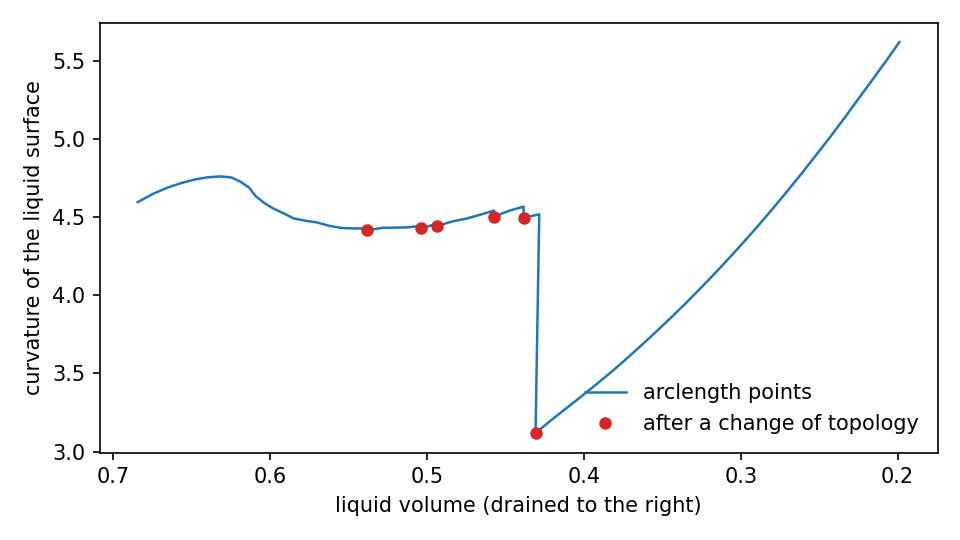
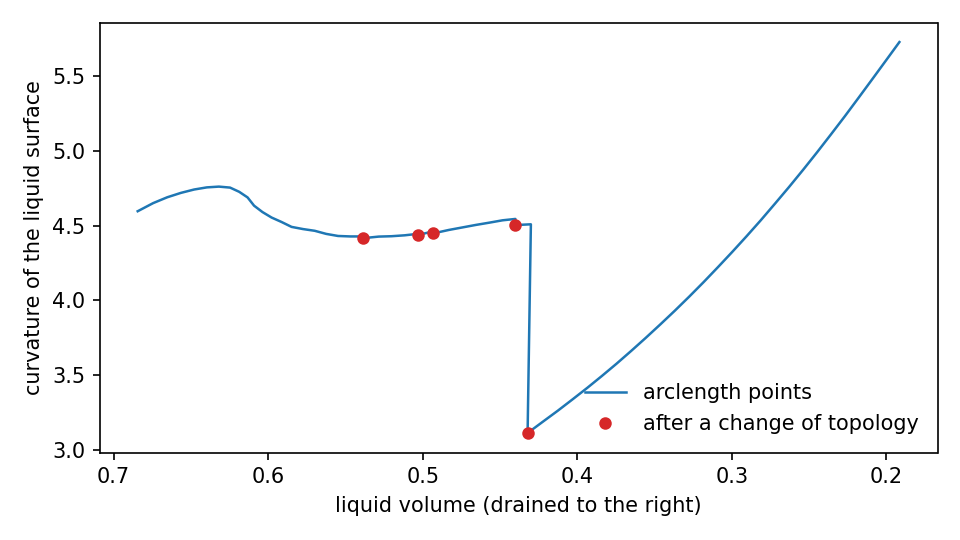
Topology runs: the mesh evened where a change or fall ends; pole moves only for a farther place
- recipes._smooth: vertex averaging and edge flips with Newton steps back
  between, five times, where a change or fall settles (undone if Newton
  doesn't get back or the surface went through a solid). Newton's first
  step from a pack's post-change mesh (7 degrees beside a contact line)
  converged only linearly and failed; once evened (18-23 degrees), in 4-5
  steps. The "three falls in a row without a change" stop: 0 of 6 runs,
  against 4 of 6.
- move_poles: an unforced move only where the new pole is 1.5 times as far
  from the lines (a bead's pole had moved 19 times).
- docs/drainage_topology.md: outputs, prose and figures for the change (the
  pore's jump dries two beads now, not three).

Claude-Session: https://claude.ai/code/session_01Kwrdj7nwy1jTuiKZ3FpBEY

diff --git a/python/pysurfaceevolver/recipes.py b/python/pysurfaceevolver/recipes.py
@@ -786,6 +786,7 @@ def arclength(ev, what: Any, ds: float, steps: int, *,
                      if stalled else f"the fall from {last[-1].value:.6g}")
             warnings.warn(f"arclength(): {what_} stopped: {why}", UserWarning, stacklevel=2)
             return
+        _smooth(ev, factor, tol)
         bodies = ev.bodies()
         settled = Step(index, _current(ev, what), ev.energy, np.array(bodies.volume),
                        np.array(bodies.pressure), result, events=ev.events(factor),
@@ -798,6 +799,22 @@ def arclength(ev, what: Any, ds: float, steps: int, *,
             warnings.warn("arclength(): three falls in a row ended without a change of "
                           "topology: stopping", UserWarning, stacklevel=2)
             return
+
+
+def _smooth(ev, factor: float, tol: float) -> None:
+    """The mesh evened where a change or fall ended: vertex averaging and edge
+    flips, Newton steps back to the equilibrium after each, five times.
+    Newton's steps from there converged only linearly (a pack's contact line
+    beside facets of 7 degrees: x0.7 a step, and the run's first step
+    failed), x20 once evened (18 degrees). Undone where Newton doesn't get
+    back, or the surface went through a solid."""
+    start = ev.save()
+    for _ in range(5):
+        ev.vertex_average()
+        ev.equiangulate()
+        ev.newton(3, tol=tol)
+    if not ev.newton(20, tol=tol).converged or _through(ev.events(factor)):
+        ev.restore(start)
 
 
 def _nearest(found: list) -> Any:

diff --git a/python/pysurfaceevolver/_surgery.py b/python/pysurfaceevolver/_surgery.py
@@ -156,6 +156,8 @@ def move_poles(ev, force=()) -> list:
         if near >= _POLE_MARGIN and key not in force:
             continue
         reach = np.linalg.norm(cand[:, None, :] - line[None, :, :], axis=2).min(axis=1)
+        if key not in force and reach.max() < 1.5*near:
+            continue            # (no farther place: a bead's pole moved 19 times)
         axis = cand[int(np.argmax(reach))]
         new = C.sphere(tuple(centre), R, contact_angle=getattr(wall, "contact_angle"),
                        axis=tuple(axis))

diff --git a/docs/drainage_topology.md b/docs/drainage_topology.md
@@ -15,7 +15,9 @@ This page drains two shapes this way. The first is a drop with a solid sphere in
 it; the second is one pore of a bead pack. Both use spheres whose wetting integrals
 have a single singular point, put where the liquid never goes or always is
 (`constraints.sphere(axis=...)`). The default azimuth about z is singular at both
-poles, and a contact line that crossed one would carry the integrals with it.
+poles, and a contact line that crossed one would carry the integrals with it. Where
+a contact line still comes near a sphere's singular point, the run moves the point
+to the far side of the sphere from the lines, keeping the volume and energy.
 
 ## A drop draining over a sphere
 
@@ -60,9 +62,9 @@ print(f"at volume {steps[-1].value:.0f} the contact angle along the ball's line 
 ```
 
 ```text
-first dry patch at volume 31.5 (the drop full at 53.5), the last change at 13
+first dry patch at volume 31.5 (the drop full at 53.5), the last change at 11
 the volume held at every point to round-off
-at volume 10 the contact angle along the ball's line is 26 to 29 degrees (set: 30)
+at volume 10 the contact angle along the ball's line is 26 to 30 degrees (set: 30)
 ```
 
 The first patch opens where the drop's surface comes within half an edge of the
@@ -116,8 +118,8 @@ print(f"then on to {V[-1]:.2f}, curvature {k[-1]:.1f}")
 ```text
 full: volume 0.68, curvature 4.6
 before the jump: bead4 drying from 0.54, a patch at a time; curvature up to 4.8
-at 0.43 the liquid jumps: curvature from 4.5 to 3.1 at the same volume, bead2, bead3, bead4 drying
-then on to 0.20, curvature 5.6
+at 0.43 the liquid jumps: curvature from 4.5 to 3.1 at the same volume, bead2, bead4 drying
+then on to 0.19, curvature 5.7
 ```
 
 ```{figure} _static/drainage_pore.png
@@ -133,7 +135,7 @@ First the menisci come down onto bead 4, and dry patches open on it one after th
 other while the curvature stays near 4.5. At a volume of 0.43, the last liquid across
 the pore's middle can no longer hold its place. With the volume fixed, the liquid
 rearranges at once into the wedges between the beads, at a curvature of 3.1, drying
-three beads where the strip was. This is the analogue of a Haines jump at a fixed
+two beads where the strip was. This is the analogue of a Haines jump at a fixed
 volume: the same rearrangement under a fixed pressure would be a sudden loss of
 liquid. Past it, the curvature rises again as the wedges drain.
 
@@ -155,7 +157,6 @@ The liquid just before the jump (left) and just after it (right), at the same vo
 - Drained further, this pore stops at a volume of about 0.16. Newton's steps
   converge only slowly in a strongly curved part of the remaining liquid, and the run
   can't step on. A finer mesh and a run down to the pendular rings are open.
-- A pack of many beads isn't done yet. As a meniscus sweeps past a bead, its contact
-  line can come near the point where the bead's wetting integrals are singular, and
-  crossing it moves the wetted area by the whole sphere. Representing the beads'
-  wetted parts by facets instead of integrals is the next step (PLAN, stage F).
+- A pack of many beads isn't done yet. Sixteen beads in a box drain from a volume of
+  87.5 to between 57 and 80, run to run, through many dry patches, before a descent
+  that doesn't settle or a step that doesn't converge ends the run (PLAN, stage F).

diff --git a/docs/PLAN.md b/docs/PLAN.md
@@ -390,10 +390,19 @@ Stages:
   one relax() run swept a line from 0.83 to 0.32 beyond) are redone with the pole
   moved; contact-line edges stored against their facet are turned round
   (`orient_lines`; two of 35 seen once, the energy below what the beads can give).
-  Pack runs now end at 64-69 (2 threads, run to run): three falls in a row without a
-  change at ~69, or no stable state, after falls left contact-line edges 1-1.9 long
-  (no remeshing in falls; their chord integrals off by up to 3.5) and facets
-  degenerate. Next: line edges kept in range in falls, then the fall loop at ~69.
+  Then (branch stage-f-pack): shrunk contact-line loops covered (`close_patches`:
+  a three-edge loop 0.003 across ended a third of the runs at the first change);
+  falls split line edges past 2 h0 (`_split_lines`; chord integrals 1.5 off at
+  edges 1.6); where a change or fall ends the mesh is evened (`recipes._smooth`:
+  vertex averaging, flips, Newton between, five times; Newton's first step from a
+  7-degree mesh converged x0.7 a step and failed, x20 once evened); a branch
+  that can't take one step from where a fall ended makes the nearest change
+  (`_nearest`); unforced pole moves need 1.5 times the distance (a bead's pole
+  moved 19 times). Pack runs (6 per variant, 2 threads): final volumes 57-83
+  run to run, medians 64-71 between batches of the same code: six runs don't
+  resolve a variant. Remaining stops: no stable state within 200 steps, the
+  descent running away, Evolver internal errors (1303 cone_analyze, 1374 detach
+  edge) in the surgery. Next: reproduce single failures at 1 thread.
   Original aim (after A-E): volume-controlled, as a
   slow syringe-pump drainage (the experiments of Berg et al. 2013 and Moebius and Or
   come closer to that than to a fixed pressure): `arclength` in the liquid's volume, a

diff --git a/CHANGELOG.md b/CHANGELOG.md
@@ -90,6 +90,15 @@
   crossing a pole had put them a whole sphere off), but for lines a fall leaves with
   long edges.
 
+- `arclength(topology=True)` goes further through a bead pack: a contact-line loop
+  that has shrunk within half an edge (a patch closing up) is covered over; falls
+  keep contact-line edges within two median edges (their chord integrals went 1.5
+  off); where a change or fall ends, the mesh is evened (vertex averaging and edge
+  flips, Newton steps back between: Newton's steps from there had converged only
+  linearly); and where the branch still can't take a step from there, the change
+  nearest to coming is made. Each removed a way a 16-bead pack's runs ended; they
+  still end, from 87.5 at 57 to 83 run to run.
+
 ### Speed
 
 - Newton steps on a surface free to move as a whole reuse the last step's null
